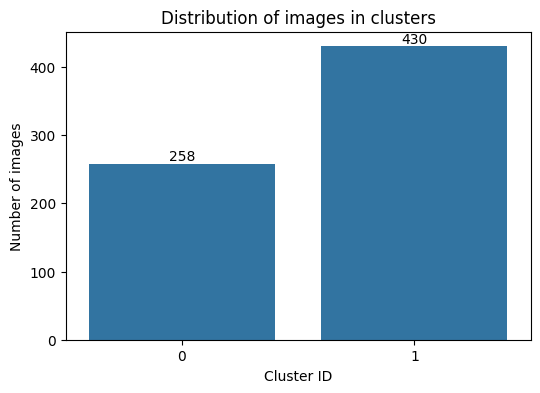
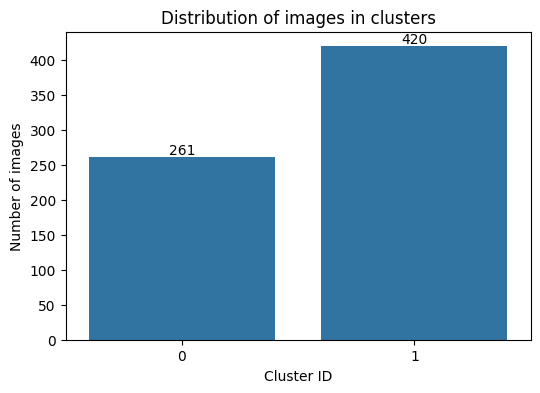
Implement Results page to show the evalutations of the model. Add data analysis section in documentation page. Add yolo_validation.py to validate the model and save the results

diff --git a/app/templates/documentation.html b/app/templates/documentation.html
@@ -11,12 +11,12 @@
 {% block content %}
 <h2>Documentation</h2>
 
-<section id="documentation-intro">
+<section>
     <p>
         The documentation is divided into two main sections:
     </p>
     <ul>
-        <li><strong>Project Documentation:</strong> covers the project overview, dataset and training details.</li>
+        <li><strong>Project Documentation:</strong> covers the project overview, dataset, data analysis,  and training details.</li>
         <li><strong>API Documentation:</strong> describes all backend endpoints, including how to use them, input formats and output responses.</li>
     </ul>
 </section>
@@ -61,21 +61,25 @@
             for translation, we can try to find all the eight vertices of the volume, like in the image below,
             so that we can have a deeper understanding and more capabilities, like estimating the position of the player's lines
             (the cylinders where the small football player statues are located).
+            <img src="/static/images/page-images/Index.png">
         </p>
 
-        <img src="/static/images/page-images/Index.png">
-
+        
     </section>
 
     <section>
         <h3>Dataset</h3>
         <p>
-            The model was trained on 1130 images of foosball matches captured from a spectator's view.
+            The dataset is composed of 1,128 images of foosball matches captured from different spectator viewpoints.
+            The images exhibit a wide variability in camera angles, table models, acquisition environments, camera devices
+            and zoom levels, as well as lighting conditions.
         </p>
         
         <p>
             The annotations were made using a self made annotation tool, designed to precisely select keypoint positions, 
             following perspective constraints.
+            This aspect is particularly important, as in most spectator viewpoints the model is required to infer the positions
+            of vertices 6 and 7, which are often occluded by obstacles, as shown in the example below.
         </p>
 
         <p>
@@ -96,27 +100,121 @@
                 </li>
             </ul>
             Example:
-        </p>
-
-        <img src="/static/images/page-images/Keypoint Order.png">
-
-        <p>
-            The images and were analyzed in terms of resolutions, shapes, ratios, brightnesses and saturations,
-            and were divided into clusters using K-Means.
+            <img src="/static/images/page-images/Keypoint Order.png">
         </p>
 
         <p>
-            The annotations were analyzed with respect to table orientation, position in the image and keypoint visibilities.
+            In every image of the dataset, the first four keypoints are always present and never fall outside
+            the image boundaries. This represents a design constraint of the project: when these four keypoints
+            are present, at least one or two of the remaining lower keypoints are also present,
+            allowing the others to be calculated by applying perspective constraints.
+        </p>
+        
+    </section>
+
+
+    <section>
+        <h3>Data Analysis</h3>
+        <p>
+            The dataset was originally composed of 681 images. Using K-Means, the images were grouped into different clusters,
+            and additional images were added based on their visual properties in order to increase the dataset size while
+            attempting to balance clusters with fewer samples.
+        </p>
+        <P>
+            Some of the observations are summarized below:
+            <ul>
+                <li>
+                    With K=2, the clusters appeared to show that the number of images captured with a zoomed camera (high focal length)
+                    were approximately 200 fewer than the images taken with a regular zoom (human-level focal length).
+                    <div class="small_gallery">
+                        <img src="/static/images/samples/index104_frame_015.jpg">
+                        <img src="/static/images/samples/index83_frame_012.jpg">
+                    </div>
+                </li>
+                <li>
+                    With K=3, the cluster corresponding to zoomed-camera images was further divided
+                    into light and dark images, with the lighter images being slightly more numerous.
+                    <div class="small_gallery">
+                        <img src="/static/images/samples/Screenshot (476).png">
+                        <img src="/static/images/samples/index102_frame_006.jpg">
+                    </div>
+                </li>
+                <li>
+                    With K=4 a very small cluster of 39 images, with strangely rotated images appeared. and stayed the same in every other K.
+                    This issue was addressed through rotation-based data augmentation techniques.
+                    <div class="small_gallery">
+                        <img src="/static/images/samples/index57_frame_013.jpg">
+                    </div>
+                </li>
+                <li>
+                    With K=5, a small cluster of approximately 70 very dark images appeared, suggesting the need for additional samples.
+                    Another cluster of around 100 images, captured from a top-down viewpoint above the table, was also identified and
+                    suggested a need of slightly more top-down viewpoint above the table.
+                    <div class="small_gallery">
+                        <img src="/static/images/samples/index88_frame_017.jpg">
+                        <img src="/static/images/samples/Alto 9.png">
+                    </div>
+                </li>
+                <li>
+                    With K=6, the largest cluster, composed of regularly zoomed images taken from a human-level height, was split into
+                    two sub-clusters: one containing white tables with green play areas, and another with darker-colored tables.
+                    The first one contained approximately 50 fewer images than the second one.
+                    <div class="small_gallery">
+                        <img src="/static/images/samples/index2_frame_016.jpg">
+                        <img src="/static/images/samples/index19_frame_004.jpg">
+                    </div>
+                </li>
+            </ul>
+        </P>
+        
+        <p>
+            The annotations allowed an analysis of the table's positions, directions, sizes and keypoint visibilities .
+            The resulting distributions were used not only to guide the data augmentation process, in order to achieve a more balanced dataset,
+            but also to choose additional images to add to the dataset.
         </p>
 
+        <P>
+            The graphs and some of the observations are summarized below:
+            <ul>
+                <li>
+                    Centers
+                    <div class="gallery">
+                        <img src="/static/images/graphs/Centers (Default).png">
+                        <img src="/static/images/graphs/Centers Heatmap (Default).png">
+                    </div>
+                </li>
+                <li>
+                    Directions
+                    <div class="gallery">
+                        <img src="/static/images/graphs/Directions (Default).png">
+                        <img src="/static/images/graphs/Theta (Default).png">
+                    </div>
+                </li>
+                <li>
+                    Size
+                    <div class="gallery">
+                        <img src="/static/images/graphs/BBox Dimension (Default).png">
+                    </div>
+                </li>
+                <li>
+                    Visibilities
+                    <div class="gallery">
+                        <img src="/static/images/graphs/Visibilities (Default).png">
+                    </div>
+                </li>
+            </ul>
+        </P>
+
+        <p>With the analysis of K-Means and annotations additional 447 images were added to the dataset.</p>
+
         <p>
-            Based on these analysis, a targeted data augmentation strategy was applied to mitigate dataset
-            imbalances, resulting in a final dataset of 8,304 images.
+            The resulting dataset was also analyzed in terms of shape, resolution, aspect ratio, brightness, and saturation.
+            The resulting distributions were used to guide the data augmentation process in order to achieve a more balanced dataset.
         </p>
 
     </section>
 
-     <section>
+    <section>
         <h3>Training Details</h3>
         <p>
             The model used for this project is <strong>YOLOv8 nano</strong>, configured for keypoint detection.
@@ -125,7 +223,7 @@
         </p>
         
         <p>
-            The dataset was divided into a training set of 6,190 images and a validation set of 2,114 images, with no test set,
+            The dataset was divided into a training set of 6,190 images and a validation set of 2,113 images, with no test set,
             because a further division of the data could have reduced the training set size too much, and therefore no
             hyperparameter fine-tuning was performed.
         </p>

diff --git a/app/templates/results.html b/app/templates/results.html
@@ -10,23 +10,56 @@
 
 {% block content %}
 <h2>Results</h2>
-<section id="example-results">
-    <h2>Example Detections</h2>
-    <p>
-        Here you will find sample images with detected keypoints highlighted.
-        Add images dynamically or manually to showcase model performance.
-    </p>
-    <!-- Placeholder for images -->
-    <div class="gallery">
-        <img src="/static/images/icons/Index.png">
-        <img src="/static/images/icons/Index.png">
-    </div>
-</section>
+
+<img src="/static/images/graphs/results.png" class="results">
 
 <section id="metrics">
     <h2>Performance Metrics</h2>
+
     <p>
-        Include accuracy, precision, recall, or any evaluation metric of your YOLO keypoint model.
+        Although the evaluation reports extremely high performance values, 
+        a closer analysis reveals that these metrics alone do not portray
+        the generalization capabilities of the model.
+    </p>
+
+    <ul>
+        <li>precision(B): 0.9976</li>
+        <li>recall(B): 0.9999</li>
+        <li>mAP50(B): 0.9950</li>
+        <li>mAP50-95(B): 0.9279</li>
+        <li>precision(P): 0.9976</li>
+        <li>recall(P): 0.9999</li>
+        <li>mAP50(P): 0.9950</li>
+        <li>mAP50-95(P): 0.9934</li>
+    </ul>
+
+    <p>
+        Despite these near-perfect numerical results, a visual inspection of the
+        model predictions highlights clear limitations in its ability to generalize to
+        unseen scenarios. We can see some examples below.
+    </p>
+
+    <div class="gallery">
+        <img src="/static/images/page-images/Example1.png">
+        <img src="/static/images/page-images/Example2.png">
+        <img src="/static/images/page-images/Example3.png">
+        <img src="/static/images/page-images/Example4.png">
+    </div>
+
+    <p>
+        This discrepancy is likely caused by the limited size and diversity of the training dataset.
+        The task involves a wide range of different tables, configurations, camera lenses,
+        viewpoints, lighting conditions, and occlusions, which are not sufficiently
+        represented in the available data.
+        As a result YOLO might be too complex for the dataset, overfitting the training data.
+    </p>
+
+    <p>
+        Evidence of overfitting can also be observed during training, where the
+        pose loss on the training set converges to approximately 0.01, while the
+        validation pose loss, around 0.1, indicating a tenfold increase.
+        This gap suggests that the model has learned to fit the training samples
+        very accurately but struggles to generalize beyond them.
     </p>
 </section>
 {% endblock %}

diff --git a/app/static/info_pages_style.css b/app/static/info_pages_style.css
@@ -39,7 +39,7 @@ section ul li {
     margin-bottom: 0.5rem;
 }
 
-.gallery {
+.gallery, .small_gallery {
     display: flex;
     flex-wrap: wrap;
     gap: 1rem;
@@ -50,6 +50,14 @@ section ul li {
     width: 40%;
     border-radius: 8px;
     border: 2px solid #ddd;
+}
+
+.small_gallery img {
+    width: 20%;
+}
+
+.results{
+    width: 80%;
 }
 
 

diff --git a/src/yolo_validation.py b/src/yolo_validation.py
@@ -1,0 +1,14 @@
+import os
+import json
+from ultralytics import YOLO
+from config import *
+
+# model loading
+model = YOLO("yolo/runs/train05/weights/best.pt")
+
+# results
+results = model.val(project=YOLO_RUNS_DIRECTORY)
+
+# write results
+with open(os.path.join(YOLO_RUNS_DIRECTORY, "val", "pose_val_metrics.json"), "w") as f:
+    json.dump(results.results_dict, f, indent=4)
